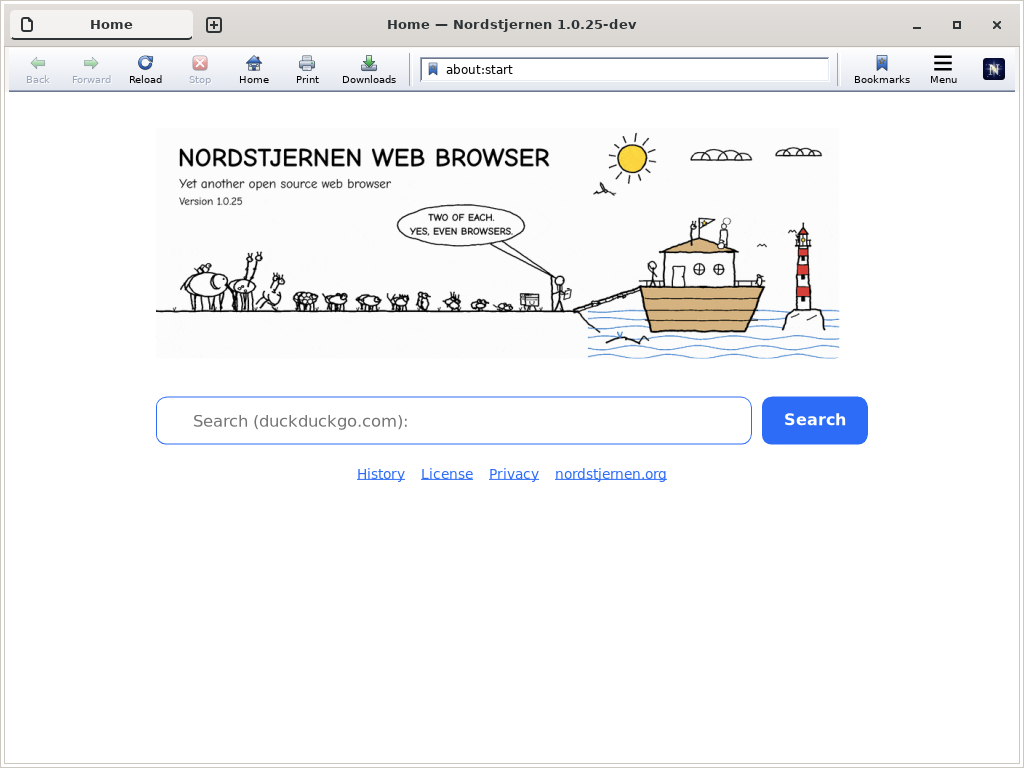
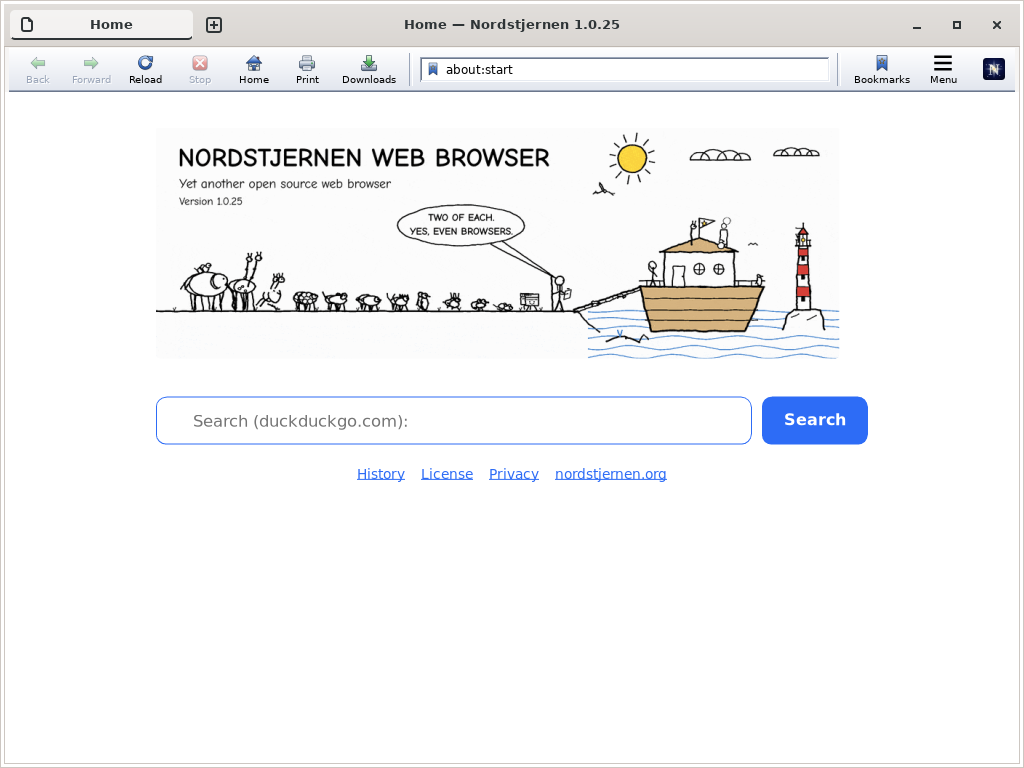
Release 1.0.25
The project version leaves -dev behind and becomes 1.0.25, which
NS_VERSION carries into the window title, the about box and the user
agent. The AppStream metadata gains the matching 1.0.25 entry
summarising the animations, CSS validation and interface work, and the
spec files, APKBUILD, Android and Java build files, the Java README,
the Windows packaging docs and the README's current-release line
follow. The README screenshot is retaken with the release title bar.

diff --git a/docs/windows-store.md b/docs/windows-store.md
@@ -56,7 +56,7 @@ versioned installer is hosted at a stable URL, submission is one
 command (it generates the manifest trio and opens the PR):
 
 ```powershell
-wingetcreate new https://nordstjernen.org/dl/nordstjernen-1.0.24-win64-setup.exe
+wingetcreate new https://nordstjernen.org/dl/nordstjernen-1.0.25-win64-setup.exe
 ```
 
 ## Packaging: MSIX
@@ -80,7 +80,7 @@ that shaped the manifest:
 
 - Version must be 4-part numeric `Major.Minor.Build.Revision` with
   **Revision = 0** (the Store reserves the fourth part). Meson's
-  `1.0.24` maps to `1.0.24.0`.
+  `1.0.25` maps to `1.0.25.0`.
 - `Package/Identity/Name` and `Publisher` must exactly match the
   values Partner Center assigns for the reserved Store product
   **Nordstjernen Web Browser**. The script defaults match the
@@ -202,7 +202,7 @@ install an unsigned MSIX locally. Two options:
      -KeyUsage DigitalSignature -TextExtension @('2.5.29.37={text}1.3.6.1.5.5.7.3.3')
    # export to .pfx, then:
    #   NS_MSIX_CERT_PFX=/c/path/test.pfx ./scripts/pack-msix.sh
-   Add-AppxPackage dist\nordstjernen-1.0.24-win64.msix
+   Add-AppxPackage dist\nordstjernen-1.0.25-win64.msix
    ```
 
 Verify after install: app launches from Start, appears under

diff --git a/README.md b/README.md
@@ -13,7 +13,7 @@ FreeBSD and NetBSD. The same engine also powers
 [Android](https://play.google.com/store/apps/details?id=org.nordstjernen.WebBrowser)
 and iOS shells and a Java/JVM binding.
 
-**Current release:** **1.0.23** (August 2026) — see [Changelog.md](Changelog.md).
+**Current release:** **1.0.25** (September 2026) — see [Changelog.md](Changelog.md).
 
 **Standards.** Behaviour is measured against the spec text, section by
 section, not against another browser. The walk-through of the in-scope

diff --git a/java/README.md b/java/README.md
@@ -176,12 +176,12 @@ and [API docs](https://www.nordstjernen.org/nightly/java/apidocs/). Run it with
 <dependency>
   <groupId>org.nordstjernen</groupId>
   <artifactId>nordstjernen-java</artifactId>
-  <version>1.0.23</version>
+  <version>1.0.25</version>
 </dependency>
 ```
 
 ```groovy
-implementation 'org.nordstjernen:nordstjernen-java:1.0.23'
+implementation 'org.nordstjernen:nordstjernen-java:1.0.25'
 ```
 
 ## Build

diff --git a/docs/Windows.md b/docs/Windows.md
@@ -238,7 +238,7 @@ testing and for unattended deployment:
 
 ```sh
 # Silent install to a custom path
-./dist/nordstjernen-1.0.24-win64-setup.exe /S /D=C:\Tools\Nordstjernen
+./dist/nordstjernen-1.0.25-win64-setup.exe /S /D=C:\Tools\Nordstjernen
 
 # Silent uninstall
 "%LOCALAPPDATA%\Programs\Nordstjernen\uninstall.exe" /S
